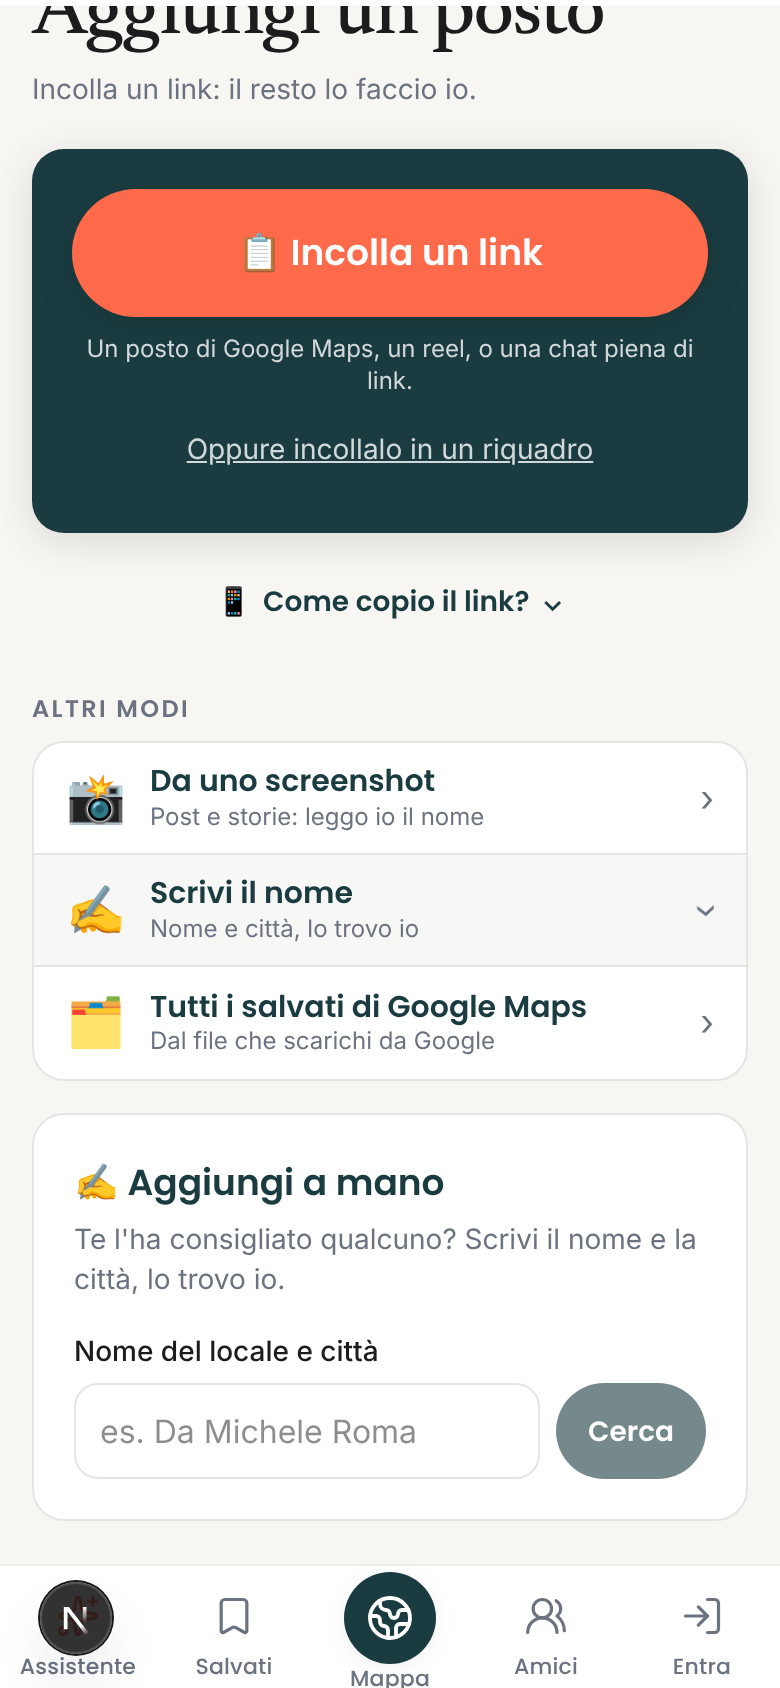
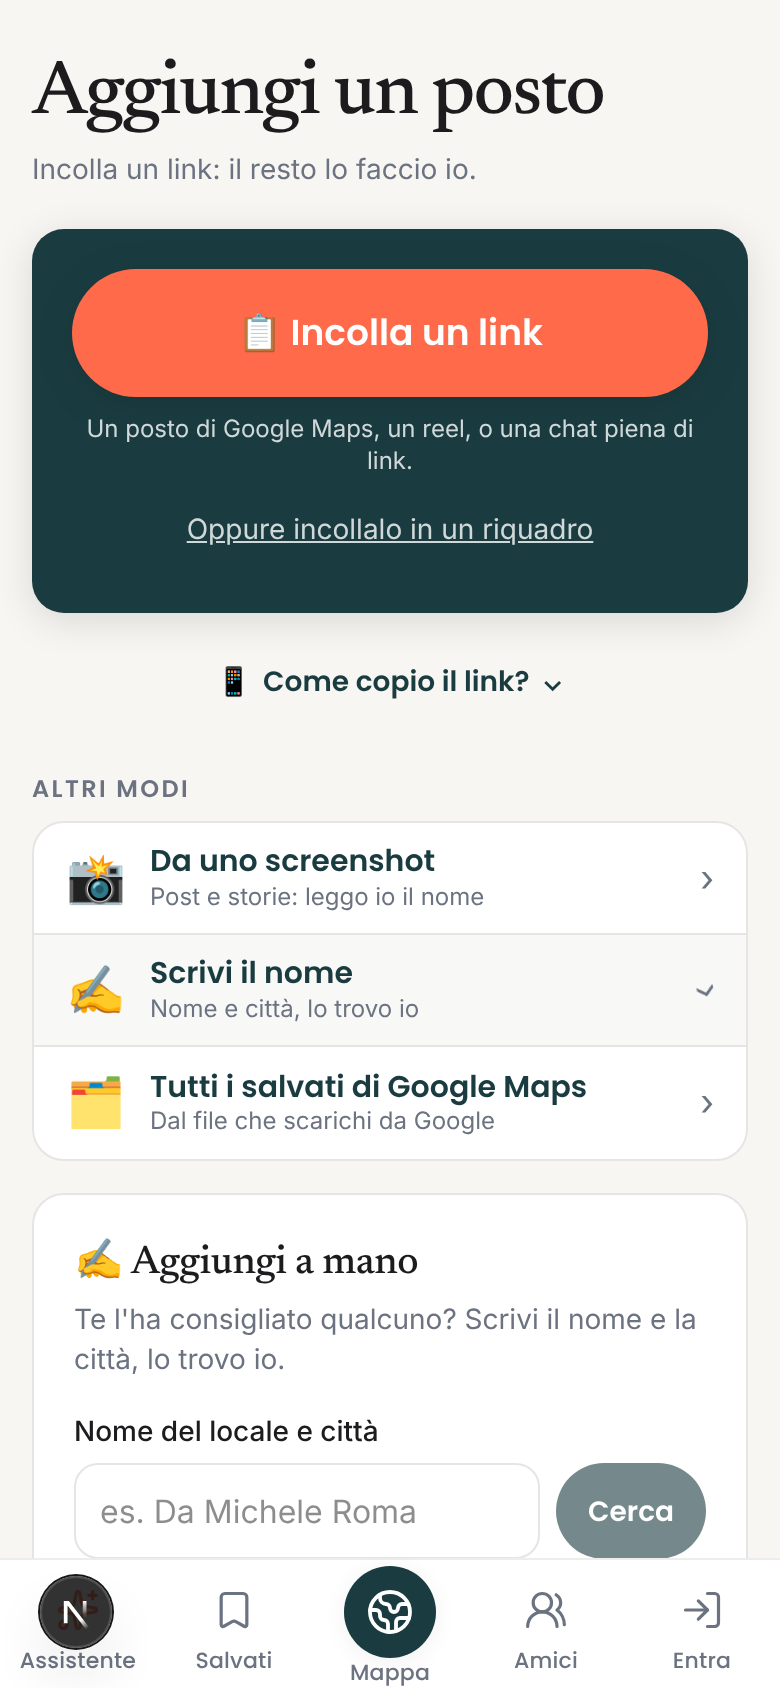
Idee e Importa: ritocchi del secondo revisore (approvate 8,5)
Idee: dopo le 21 'Wine bar qui vicino' e, come seconda idea, un dolce invece di un altro bar.
Importa: pulsante 'Incolla un link' senza emoji, riga sotto più corta, 'Scrivi o incolla a mano'.

Claude-Session: https://claude.ai/code/session_01WaRiHuSLsrxWRKbpZiAWja

diff --git a/src/app/importa/google-maps-card.tsx b/src/app/importa/google-maps-card.tsx
@@ -128,10 +128,10 @@ export default function GoogleMapsCard({
             data-testid="importa-incolla"
             className="min-h-16 w-full rounded-pill bg-accent px-4 text-lg font-display font-semibold text-white shadow-float active:scale-[0.99] disabled:opacity-60"
           >
-            {busy ? "Salvo..." : "📋 Incolla un link"}
+            {busy ? "Salvo..." : "Incolla un link"}
           </button>
           <p className="mt-2 text-center text-xs text-white/80" data-testid="importa-incolla-fonti">
-            Un posto di Google Maps, un reel, o una chat piena di link.
+            Google Maps, un reel o una chat di link
           </p>
 
           {(showField || pending) ? (
@@ -159,7 +159,7 @@ export default function GoogleMapsCard({
               onClick={() => setShowField(true)}
               className="mt-1 min-h-11 w-full text-center text-sm text-white/80 underline"
             >
-              Oppure incollalo in un riquadro
+              Scrivi o incolla a mano
             </button>
           )}
 

diff --git a/src/lib/idee.ts b/src/lib/idee.ts
@@ -50,6 +50,7 @@ export function secondaIdea(now: Date, weather: Weather | null): IdeaMomento {
       ? { emoji: "🍷", title: "Enoteca con cucina", sub: "Al coperto, per la cena", query: "Enoteca con cucina al coperto per stasera" }
       : { emoji: "🍝", title: "Trattoria di quartiere", sub: "Per la cena, non turistica", query: "Trattoria di quartiere non turistica per stasera" };
   }
-  if (h >= 21) return { emoji: "🍸", title: "Cocktail bar tranquillo", sub: "Per il dopocena", query: "Cocktail bar tranquillo per il dopocena" };
+  // Dopo le 21 la prima idea è già un wine bar: qui un dolce, non un altro bar (revisore 1/11).
+  if (h >= 21) return { emoji: "🍨", title: "Gelato o dolce", sub: "Per il dopocena", query: "Gelateria o pasticceria aperta stasera qui vicino" };
   return { emoji: "🍸", title: "Cocktail bar aperto", sub: "A quest'ora", query: "Cocktail bar aperto adesso qui vicino" };
 }

diff --git a/src/lib/moment.ts b/src/lib/moment.ts
@@ -23,7 +23,7 @@ export function momentSuggestion(now: Date, weather: Weather | null = null): str
   if (h >= 11 && h < 15) return weekend ? "🍝 Pranzo della domenica in trattoria" : "🍝 Pranzo buono e non turistico qui vicino";
   if (h >= 15 && h < 18) return "🍦 Gelato artigianale qui vicino";
   if (h >= 18 && h < 21) return day === 5 || day === 6 ? "🍸 Cocktail bar per iniziare la serata" : "🍹 Aperitivo con vista stasera";
-  if (h >= 21) return "🍷 Wine bar tranquillo per stasera";
+  if (h >= 21) return "🍷 Wine bar qui vicino";
   return "🌙 Locale aperto adesso qui vicino";
 }
 
